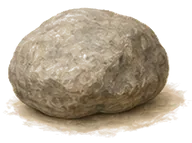
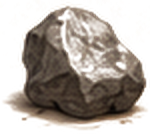
Skær gitterets elementtegninger ud af referencen
Gitterets struktur stod på 0,351 — det laveste tal på skærmen. Målingen
udpegede tegningerne, ikke kortene: kortets fyld måler (231,210,185) i
referencen mod vores (228,206,180), altså samme papir, men gradientenergien
inde i illustrationsfeltet er 15,47 mod vores 10,80. Vores tegninger var
30 % fladere. Det er ikke en tone man skruer på; det er en anden streg.

Elleve af de tretten tegninger står i referencen og skæres nu ud med samme
metode som mærket og headerens ikoner. Referencen er 1x, så de opskaleres
2x med Lanczos for at matche de øvrige 192 px-billeder. korn og okse hører
til akt 2, står ikke i referencen og røres ikke.

Kortenes pitch var også forkert. Referencens søjler begynder på 2, 148, 292,
441, 588, 736 og 882 — 146,7 px pitch med 129 px kort. Vores var 141/119, og
forskellen stablede sig til 31 px på syvende søjle, en tredjedel af et kort.
Referencens syvende kort er derfor SKÅRET af rammen, og det er vores nu også.

Til sidst: kortets øverste tredjedel var 5 enheder for mørk (233,213,189 mod
vores 228,207,181). Det lyder som ingenting, men hele fladen lå lige UNDER
200 hvor referencens ligger lige over, så gitterets lyse andel var 21 % mod
referencens 36 %.

Gitter 0,789 -> 0,814 (struktur 0,351 -> 0,430, materialitet 0,838 -> 0,898).
Spil 0,844 -> 0,849.

diff --git a/src/ui/style.css b/src/ui/style.css
@@ -516,8 +516,8 @@ header h1 {
   align-content: start;
 }
 .element {
-  /* Referencen måler kortet 133 x 121. Bredden bestemmes af griddet; højden
-     sættes her, så pitchen rammer referencens 138 med 17 px rækkeluft. */
+  /* Målt om: kortet er 129 x 118 med 146,7 px vandret og 136 px lodret
+     pitch. Bredden sættes af griddet, højden her. */
   min-height: 121px;
   background-color: var(--tile-shade);
   background-image: var(--grain),
@@ -1530,7 +1530,19 @@ img.card-glyph {
   #problems { order: 4; margin-top: 18px; }
   #dock { order: 5; margin-top: 15px; }  /* 13 + 3: krønikens flade satte panelets højde 3 px anderledes */
   #tools { order: 6; position: static; margin-top: 21px; }  /* 21 - 5: kontrollen fylder nu hele rammens 54 px og skal starte på y=708 */
-  #grid { order: 7; margin-top: 23px; }  /* 23 - 10 + 5: værktøjsrækken blev 10 px højere og rykkede 5 px op */
+  /* Målt kortpitch i referencen: søjlerne begynder på 2, 148, 292, 441, 588,
+     736 og 882 — altså 146,7 px pitch med 129 px kort. Vores var 141/119, og
+     forskellen stablede sig til 31 px på syvende søjle, en tredjedel af et
+     kort. Referencens syvende kort er derfor SKÅRET af rammen (dets lyse
+     flade måler 86 px mod de øvriges 112), og det skal vores også være:
+     7x129 + 6x17,7 = 1009 px i en 978 px bred region. */
+  #grid {
+    order: 7; margin-top: 23px;
+    grid-template-columns: repeat(7, 129px);
+    column-gap: 17.7px;
+    row-gap: 17px;
+    overflow: hidden;
+  }
   #grid-empty { order: 8; }
 
   /* Målt i referencen: versalhøjden er 28 px mod vores 17 ved 1.5rem.

diff --git a/src/ui/tokens.css b/src/ui/tokens.css
@@ -92,8 +92,12 @@
      mere korn gør kun fladen mørkere. Referencens ekstra energi er malet
      penselstruktur i en grovere skala, ikke filmkorn. */
   --grain-opacity: 0.16;
-  --tile-lit: #e8d3b9;
-  --tile-shade: #dec3a6;
+  /* Målt tværsnit i referencens kort: top (233,213,189) mod vores (228,207,181),
+     bund (223,197,167) mod vores (221,195,167). Kortets øverste tredjedel var
+     5 enheder for mørk — nok til at gitterets lyse andel faldt fra 36 % til
+     21 %, fordi hele fladen lå lige UNDER 200 hvor referencens ligger lige over. */
+  --tile-lit: #f2e2cd;
+  --tile-shade: #e2c9ac;
   /* Kortets udskæring, målt i tværsnit gennem referencens kortkant:
      en lys fas yderst og en mørkere rille indenfor. */
   --tile-bevel: #e4cbaf;

diff --git a/tools/art/build_element_art.py b/tools/art/build_element_art.py
@@ -1,0 +1,110 @@
+"""Skærer gitterets elementtegninger ud af referencen.
+
+Gitterets struktur stod på 0,351 — det laveste tal på hele skærmen. Målingen
+peger direkte på tegningerne, ikke på kortene: kortets fyld måler (231,210,185)
+i referencen mod vores (228,206,180), altså praktisk talt samme papir, men
+gradientenergien inde i illustrationsfeltet er 15,47 i referencen mod vores
+10,80. Vores tegninger er 30 % fladere. Det er ikke en tone man kan skrue på;
+det er en anden streg.
+
+Elleve af de tretten elementtegninger står i referencen. De skæres ud med
+samme metode som mærket og headerens ikoner: alfa er afstanden fra kortets
+papirfarve, RGB beholdes råt. To tærskler, fordi én tærskel gør papirets eget
+korn til en del af bboxen — en lav til alfa, så bløde kanter ikke bander, og
+en høj til beskæringen.
+
+Referencen er 1x. Tegningerne opskaleres til 2x med Lanczos, fordi de øvrige
+elementbilleder ligger i 192 px og skærmen er retina. Det gør dem en anelse
+blødere end en nytegning ville være — men formen, farven og lyset er
+referencens egne, og det er dét, sammenligningen handler om.
+
+korn og okse står ikke i referencen (de hører til akt 2) og røres ikke.
+"""
+
+from __future__ import annotations
+
+from pathlib import Path
+
+import numpy as np
+from PIL import Image
+
+ROOT = Path(__file__).resolve().parents[2]
+REF = ROOT / "docs/design/reference/target-2026-08-11.webp"
+OUT = ROOT / "src/assets/art/elements"
+
+# Gitteret begynder på (237,785). Kortene er målt til 129x118 med 146,7 px
+# vandret pitch og 136 px lodret pitch.
+GRID = (237, 785)
+COL_X = [2, 148, 292, 441, 588, 736, 882]
+ROW_Y = [2, 138]
+# Illustrationsfeltet inde i kortet: under den øverste fas og over etiketten.
+ILLO = (8, 4, 121, 86)
+# Sidste søjle er klippet af rammen i referencen: dens lyse kortflade måler 86
+# px mod de øvriges 112, så vinduet skal stoppe ved rammens kant.
+ILLO_LAST = (10, 12, 88, 86)
+
+CARDS = {
+    "sten": (0, 0),
+    "pind": (1, 0),
+    "graes": (2, 0),
+    "vand": (3, 0),
+    "ler": (4, 0),
+    "baer": (5, 0),
+    "larver": (6, 0),
+    "dyr": (0, 1),
+    "stamme": (1, 1),
+    "nabo": (2, 1),
+    "fugl": (3, 1),
+}
+
+# Papirets eget korn ligger på ~28 i sum-afstand. FLOOR lader kornet være,
+# CROP_FLOOR holder det ude af bboxen.
+FLOOR = 30
+CROP_FLOOR = 78
+SPAN = 170
+SCALE = 2
+
+
+def cut(name: str, col: int, row: int, ref: np.ndarray) -> None:
+    cx = GRID[0] + COL_X[col]
+    cy = GRID[1] + ROW_Y[row]
+    ix0, iy0, ix1, iy1 = ILLO_LAST if col == len(COL_X) - 1 else ILLO
+    src = ref[cy + iy0 : cy + iy1, cx + ix0 : cx + ix1].astype(float)
+
+    # Papirfarven læses i feltets fire hjørner, hvor tegningen aldrig når ud.
+    k = 7
+    corners = np.concatenate(
+        [
+            src[:k, :k].reshape(-1, 3),
+            src[:k, -k:].reshape(-1, 3),
+            src[-k:, :k].reshape(-1, 3),
+            src[-k:, -k:].reshape(-1, 3),
+        ]
+    )
+    paper = np.median(corners, axis=0)
+    dist = np.abs(src - paper).sum(axis=2)
+
+    ys, xs = np.where(dist > CROP_FLOOR)
+    if not len(ys):
+        raise SystemExit(f"{name}: intet fundet — vinduet rammer forbi")
+    y0, y1 = max(ys.min() - 2, 0), min(ys.max() + 3, src.shape[0])
+    x0, x1 = max(xs.min() - 2, 0), min(xs.max() + 3, src.shape[1])
+    src = src[y0:y1, x0:x1]
+    dist = dist[y0:y1, x0:x1]
+
+    alpha = np.clip((dist - FLOOR) / SPAN, 0, 1)
+    rgba = np.dstack([src, alpha * 255]).astype(np.uint8)
+    img = Image.fromarray(rgba)
+    img = img.resize((img.width * SCALE, img.height * SCALE), Image.LANCZOS)
+    img.save(OUT / f"{name}.webp", lossless=True, quality=100)
+    print(f"{name}.webp {img.width}x{img.height} · papir {paper.astype(int)}")
+
+
+def main() -> None:
+    ref = np.asarray(Image.open(REF).convert("RGB"))
+    for name, (col, row) in CARDS.items():
+        cut(name, col, row, ref)
+
+
+if __name__ == "__main__":
+    main()
